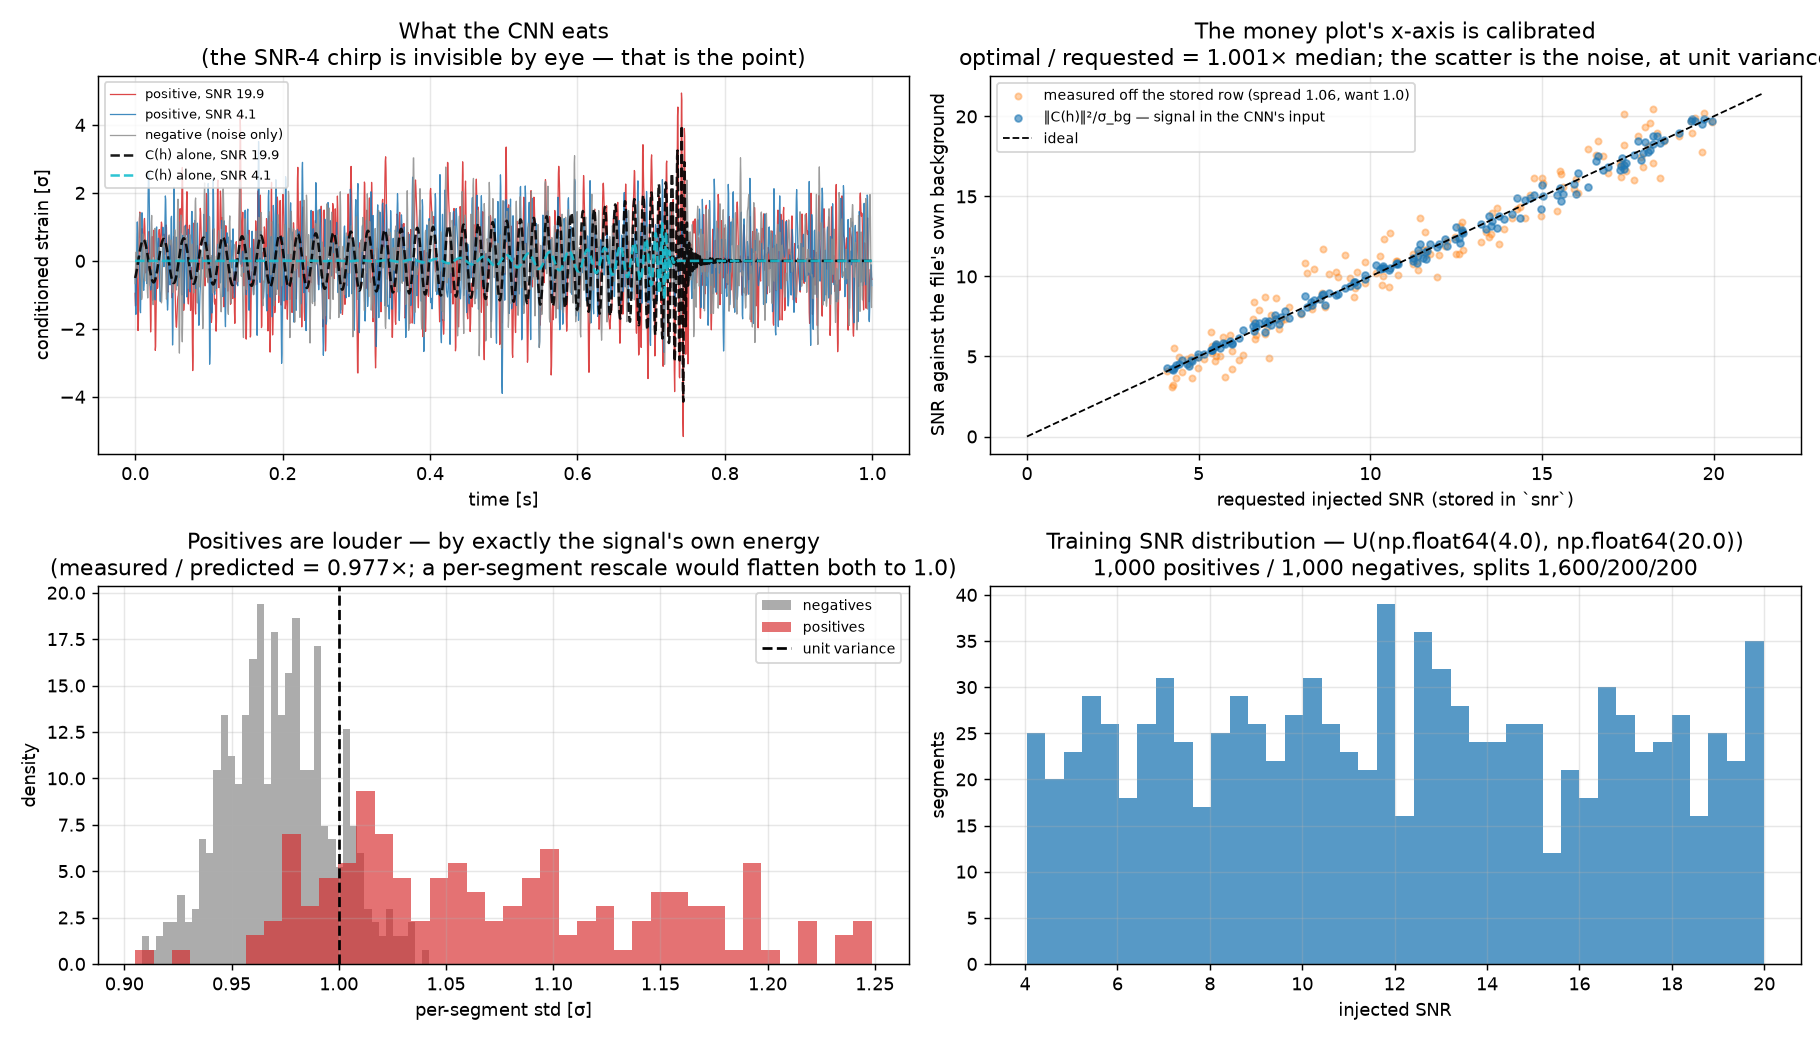
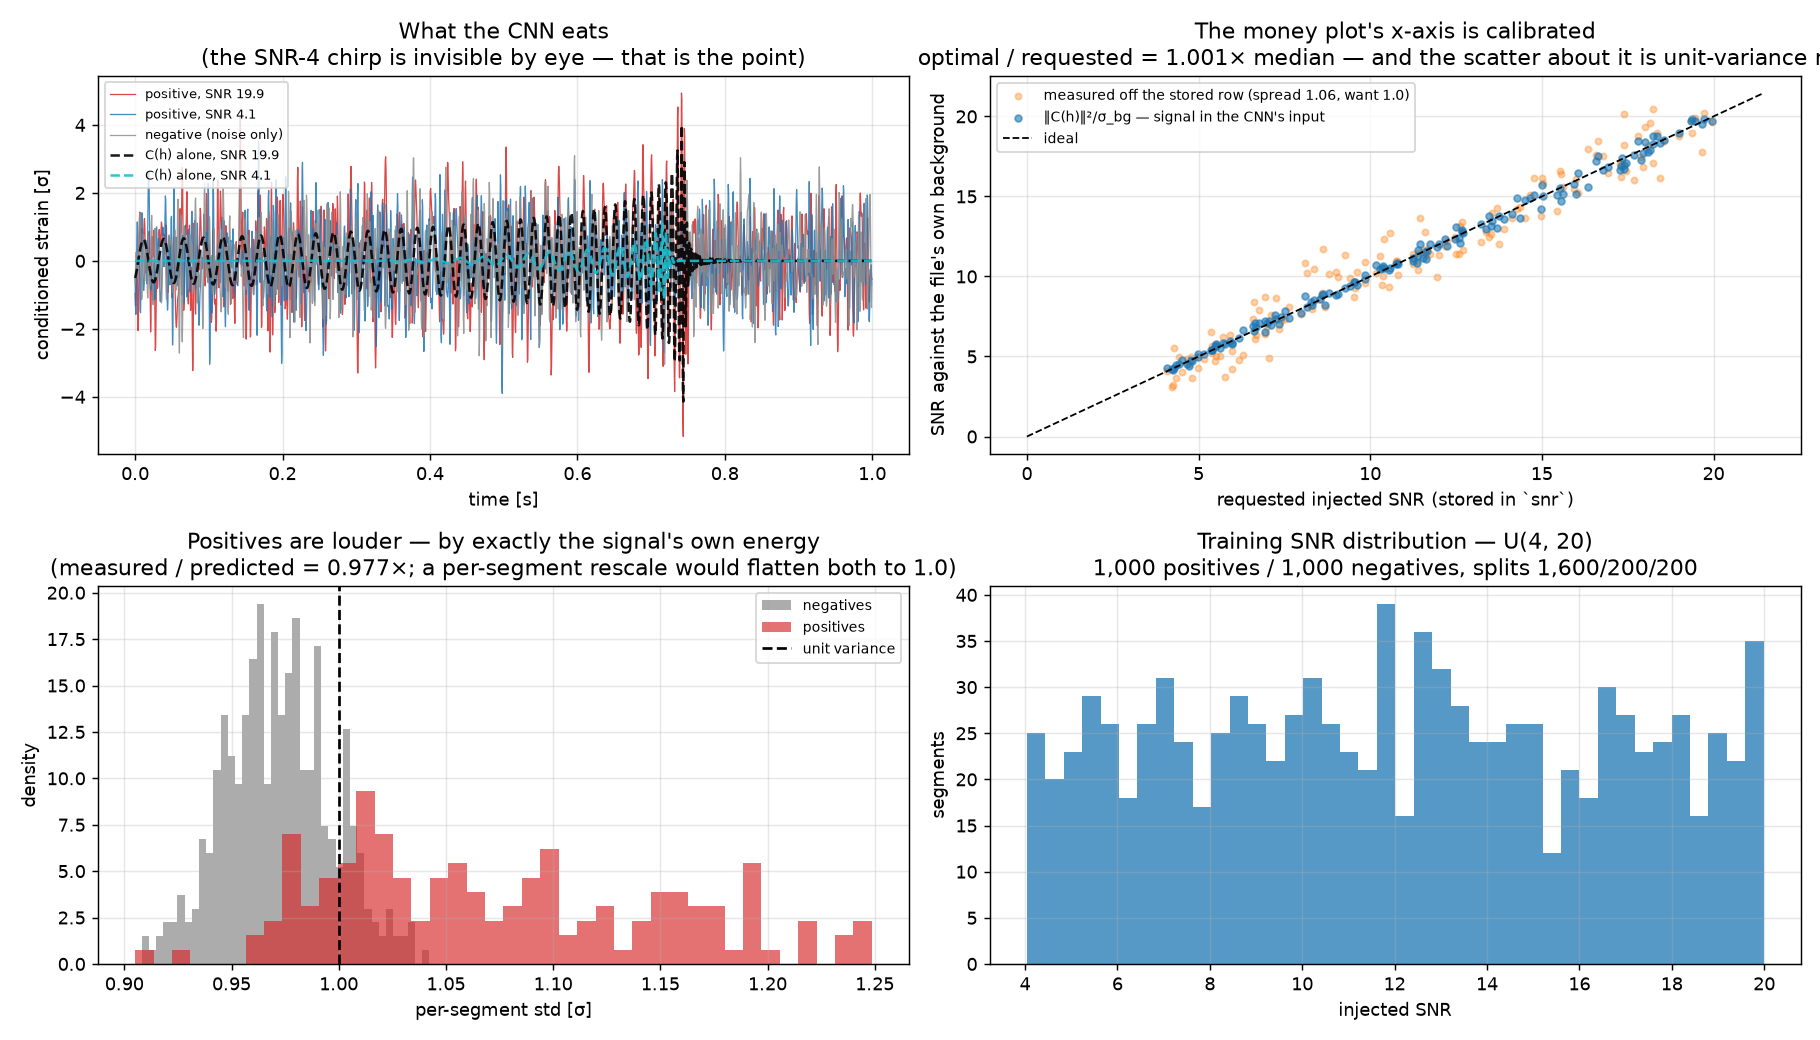
vault backup: 2026-07-12 13:20:51

Changed region(s): [[0.4923, 0.0308, 1.0, 0.0615], [0.5846, 0.4923, 0.9538, 0.5538]]

diff --git a/1. Stages/Stage 1/stage1_dataset_check.py b/1. Stages/Stage 1/stage1_dataset_check.py
@@ -302,8 +302,8 @@ def main() -> int:
         b.plot(lim, lim, "k--", lw=1, label="ideal")
         b.set_xlabel("requested injected SNR (stored in `snr`)")
         b.set_ylabel("SNR against the file's own background")
-        b.set_title("The money plot's x-axis is calibrated\n"
-                    f"optimal / requested = {med:.3f}× median; the scatter is the noise, at unit variance")
+        b.set_title(f"The money plot's x-axis is calibrated\noptimal / requested = {med:.3f}× median "
+                    f"— and the scatter about it is unit-variance noise")
         b.legend(fontsize=8)
         b.grid(alpha=0.3)
 
@@ -320,7 +320,7 @@ def main() -> int:
         d.hist(snr[pos], bins=40, color="tab:blue", alpha=0.75)
         d.set_xlabel("injected SNR")
         d.set_ylabel("segments")
-        d.set_title(f"Training SNR distribution — U{tuple(np.round([attrs['snr_low'], attrs['snr_high']],0))}\n"
+        d.set_title(f"Training SNR distribution — U({attrs['snr_low']:.0f}, {attrs['snr_high']:.0f})\n"
                     f"{int(pos.sum()):,} positives / {int(neg.sum()):,} negatives, "
                     f"splits {counts[0]:,}/{counts[1]:,}/{counts[2]:,}")
         d.grid(alpha=0.3)

diff --git a/1. Stages/Stage 1/Stage 1.md b/1. Stages/Stage 1/Stage 1.md
@@ -3,7 +3,7 @@ tags: [ligo, machine-learning, stage-1, plan]
 status: in-progress
 created: 2026-07-11
 updated: 2026-07-12
-progress: "Steps 1-3 done and checked. Step 4 (dataset) in progress: writer + lazy Dataset + check written, writer runs, but 2 of the check's 4 properties are RED — bit-exact rebuild, and SNR calibration. Not yet generated the real 100k."
+progress: "Steps 1-3 done and checked. Step 4 (dataset) in progress: writer + lazy Dataset + check written, writer runs. SNR calibration is now GREEN (empirical background, 1.001x median — and it caught a missing SNR rescale in the check itself). One RED left: bit-exact rebuild. Not yet generated the real 100k."
 parent: "[[GW Signal Classifier - Brainstorm]]"
 ---
 
@@ -198,7 +198,8 @@ Per segment: generate a **4 s** noise buffer → (if positive) inject a waveform
 - [x] **Lazy load in `Dataset.__getitem__`.** Handle opened per-process on first read, never in `__init__` — an open h5py handle can't be pickled to a `DataLoader` worker, and one inherited across a fork is unsafe to read concurrently.
 - [x] Also store **per-segment SNR** and masses — plus `merger_pos`, the noise `seed`, and `split`. You need SNR at eval time and cannot recover it later.
 - [x] Parallelise generation with `multiprocessing` — 16 threads on the 3700X.
-- [ ] ⚠ **Get the check green.** Two open failures.
+- [x] **SNR calibration green** — the x-axis of the money plot is verified. See below.
+- [ ] ⚠ **Get the check green.** One open failure: the bit-exact rebuild.
 - [ ] Run the real 100k.
 
 **Throughput:** 19 seg/s on the smoke run → **100k is ~90 min**, not the few minutes the plan assumed. Worth a look before committing to it; ~20 s of that is per-worker warm-up (each worker recomputes `_norm()` and its PSDs).
@@ -210,18 +211,36 @@ Both follow from the crop, and both would have been **silent** errors:
 	- The early inspiral **is** still injected into the buffer outside the crop, deliberately. A real 1 s segment cut from a detector stream has the earlier inspiral present on either side of it, and the 0.5 s whitening filter reaches into it. We discard those samples; we don't pretend they were never there.
 2. **SNR is integrated over 30–350 Hz** — the band the CNN actually sees. `condition()` band-passes, so power outside the band is filtered away before the network is handed the segment. Step 2's check integrated from 30 Hz with **no upper cutoff**, which counts ringdown power above 350 Hz that never reaches the model — overstating the SNR of exactly the *lightest* systems, whose merger frequency is highest. The money plot's x-axis has to mean "the SNR available in the data the model is given", so `sigma` now takes `high_frequency_cutoff=350`.
 
-#### 🔴 The check is failing — two open items
-Structure passes clean (shapes, dtypes, 50/50, finite, negatives carry no waveform metadata, merger randomised, **noise seeds unique and no realisation shared across splits**, 80/10/10). The two that matter are red:
+#### ✅ (b) SNR calibration — **FIXED, and it was hiding a real bug**
+Structure passes clean (shapes, dtypes, 50/50, finite, negatives carry no waveform metadata, merger randomised, **noise seeds unique and no realisation shared across splits**, 80/10/10).
 
-**(a) Rebuild is not bit-exact.** Rebuilding a stored row from its metadata alone (seed, masses, SNR, merger position) reproduces it to `max|Δ| = 1.3×10⁻⁵`, not `0`. On a segment whose std is 1.0 that's a **relative 10⁻⁵ — far too big for float32 round-off** (~10⁻⁷). Suspicion is FFTW planning differing between a Pool worker and the main process, but **that is a guess and it has not been demonstrated.** Do not relax the tolerance to make this pass until the cause is known — a writer that shuffled rows, or a parameter that never made it into the segment, would look exactly like this.
+The check asserted `‖C(h)‖₂ ≈ requested SNR` and got a median **4360×** with a **6× spread**. Two separate things were wrong, and the spread was the tell that told us so — a pure scale error would have been a *constant* ratio.
 
-**(b) The SNR calibration check is measuring the wrong thing.** It asserted `‖C(h)‖₂ ≈ requested SNR`, and got a median **4360×** with a **6× spread** across segments. The spread is the tell: a pure scale error would be a *constant* ratio, so this is mass-dependent and the identity itself is wrong.
-	- **Why it's wrong:** `‖C(h)‖₂ = SNR` only holds for **white, unit-variance** noise. Conditioned noise here is unit-variance but **band-limited** (30–350 Hz of a 0–1024 Hz band), so its samples are correlated and the identity doesn't apply.
-	- **The fix (not yet written):** normalise against the **empirical background**. Correlate the conditioned template `C(h)` against a few hundred conditioned *negatives from the file itself* to get σ_bg, then the optimal SNR is `‖C(h)‖² / σ_bg`. Self-normalising, assumption-free, and it measures the SNR the way a detection statistic actually would. Expect it to come back ≈ requested, possibly biased high at low SNR — which would be [[#✅ Step 2 — Waveform generator + SNR scaling — `stage1_injection_check.py`|the same physics Step 2 saw]], not a bug.
-	- Conditioning the **pure waveform** to get `C(h)` is legal, and only because [[#✅ Step 3 — Condition (whiten → bandpass → crop) — `stage1_condition.py`|`condition()` is signal-blind]]. Hand a noiseless signal to `condition_leaky()` and it isn't even well-defined.
+**1. The check never applied the SNR rescale.** `signal_only()` conditioned the **raw** `IMRPhenomD` waveform, at pycbc's default distance. But `build_segment` stores `noise + placed × (snr/σ)`, and `condition()` is linear, so the signal term of a stored row is `C(placed × snr/σ)`, **not** `C(placed)`. The check was measuring a signal that is not in the file — one whose optimal SNR is in the *thousands*. That is the 4360×, and because σ depends on the masses, that is also the 6× spread. **A bug in the check, not in the writer** — but a check that measures the wrong signal is worth exactly nothing, and it had been reported as a *dataset* failure.
 
-> [!warning] Neither failure is cosmetic
-> **(b) makes the x-axis of the money plot unverified.** Until it's green we do not know that a segment labelled "SNR 8" contains an SNR-8 signal — and that axis is the entire result of Stage 1.
+**2. `‖C(h)‖₂ = SNR` was the wrong identity anyway.** It needs the conditioned noise to be **white and unit-variance in the same basis**. Ours is neither: `condition()` band-passes (samples are correlated) and applies a global scale (`_norm()`), which `‖C(h)‖` inherits and the true SNR does not. Left alone, this would have been a quiet **1.79× = 1/√(320/1024)** bias — the reciprocal root of the band fraction. Small, plausible, and fatal to the x-axis.
+
+**The fix — normalise against the empirical background.** Correlate the conditioned template against a few hundred conditioned *negatives from the file itself* to measure σ_bg, then
+
+$$\rho \;=\; \frac{\lVert C(h)\rVert^2}{\sigma_{bg}}, \qquad \sigma_{bg} \;=\; \operatorname{std}\big(\,C(h)\cdot C(n)\,\big)\ \text{over negatives}$$
+
+Numerator and denominator carry the same arbitrary scale and see the same band, so **both cancel**. It assumes nothing about the noise that we did not measure — and it is how a detection statistic would actually be normalised.
+
+**Result: PASS. Median 1.001×** (5th–95th 0.952–1.051, sd 0.029) on a 2k smoke dataset.
+
+**And it buys a second check for free.** The same background, correlated against the **stored row** instead of the pure template, gives `(C(h)·x)/σ_bg = ρ + N(0,1)`. Getting **unit variance** back (measured: **+0.05 ± 1.06**) is what proves σ_bg is the right normalisation — and because a misaligned or absent waveform would drive the recovered value to ~0, it *also* proves the row on disk contains the signal its metadata claims, at the sample offset we think. Two of Step 4's silent failure modes, closed by one statistic.
+
+> [!note] Check 4's prediction had the same crack in it
+> It predicted a positive's variance as `1 + ρ²/N` — which is the same white-noise assumption wearing a different hat. It now uses the **measured** `‖C(h)‖²` from the statistic above (`1 + ‖C(h)‖²/N`), so the leak test no longer rests on an assumption the pipeline doesn't satisfy. Measured/predicted = **0.977×**.
+
+![[4_dataset_check.png]]
+*Top-right is the one that matters. Blue = the signal in the CNN's input, on the ideal line. Orange = the same signal measured off the stored row, scattering about it by exactly 1. (From the 2k smoke dataset — regenerate this from the real 100k.)*
+
+#### 🔴 (a) Rebuild is not bit-exact — still open
+Rebuilding a stored row from its metadata alone (seed, masses, SNR, merger position) reproduces it to `max|Δ| = 6.1×10⁻⁶`, not `0`. On a segment whose std is 1.0 that's a **relative 10⁻⁶–10⁻⁵ — too big for float32 round-off** (~10⁻⁷). Suspicion is FFTW planning differing between a Pool worker and the main process, but **that is a guess and it has not been demonstrated.** Do not relax the tolerance to make this pass until the cause is known — a writer that shuffled rows, or a parameter that never made it into the segment, would look exactly like this.
+
+> [!warning] This failure is not cosmetic
+> It is the check that says *the file is what the code claims it is*. Until it's green, nothing rules out a writer whose rows and labels have come apart.
 
 ### Step 5 — The 1D CNN
 Modest architecture — this is the Gabbard-class problem, not ImageNet:
@@ -274,7 +293,7 @@ A correct Stage 1 model should be **roughly comparable to matched filtering — 
 
 ## 🐛 Bugs the checks caught
 
-Both of these were found by Step 2's check. **Neither one crashed.** Both produced confident, plausible-looking numbers — which is the entire argument for writing a check that compares against something you independently know.
+**None of these crashed.** All produced confident, plausible-looking numbers — which is the entire argument for writing a check that compares against something you independently know.
 
 ### 1. `resize()` threw the merger away
 At 10–50 M☉ from 30 Hz, an `IMRPhenomD` waveform is **longer than the 1 s window** — often several seconds. The obvious `hp.resize(n)` keeps the **first** *n* samples: the quiet early inspiral. It silently discards the merger — the loudest part, and the only part the window actually sees.
@@ -288,8 +307,13 @@ So `sigma()` was normalising against a waveform that wasn't in/ the data. Recove
 
 It returned a flat **~3.6 for every target SNR**: the pure-noise background, reported with total confidence. Not an error, not a NaN — just a wrong number that looked like a number.
 
+### 3. The check measured a signal that wasn't in the file
+Step 4's SNR check conditioned the **unscaled** waveform — it dropped the `snr/σ` factor that `build_segment` applies. It was therefore measuring the SNR of a signal ~1000× louder than the one on disk, and reporting it as a *dataset* failure. **The check was broken, and the dataset was fine.**
+
+Two things saved it. The number was **absurd** (4360×) rather than merely wrong — a subtler slip in the same place would have been believed. And it had a **6× spread** when a pure scale error must be a *constant* ratio: the spread was the fingerprint of `σ(m1, m2)`, and it is what said "you are dividing by something mass-dependent" out loud.
+
 > [!warning] This is the project's stated failure mode wearing different clothes
-> Neither bug was a leak, but both were the *same shape* of problem: code that runs clean and lies. The only reason either was caught is that the check compared against a value known independently. **Write the check that can fail.**
+> None of these was a leak, but all three were the *same shape* of problem: code that runs clean and lies. The only reason any was caught is that the check compared against a value known independently. **Write the check that can fail** — and then, when it does, **read the shape of the failure before you believe your first theory about it.** The first theory here (band-limited noise breaks the identity) was *true*, and was not the bug.
 
 ---
 
